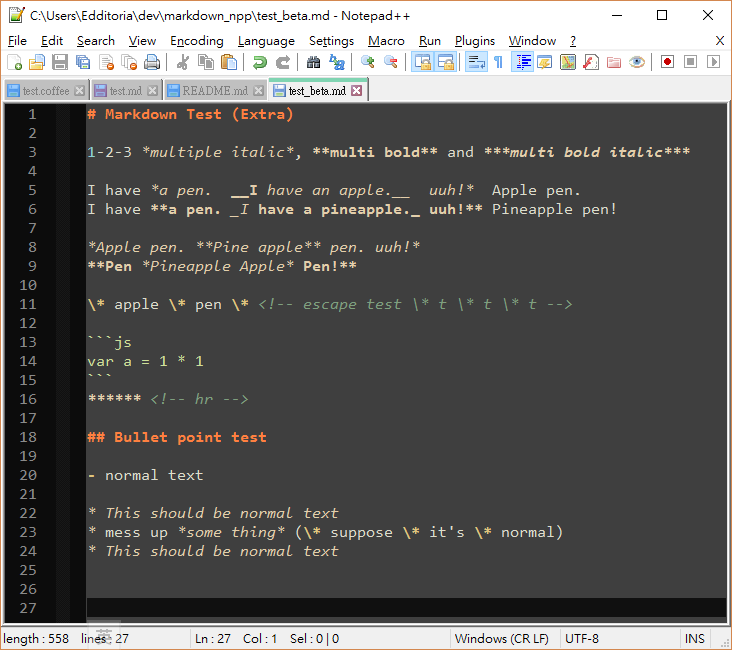
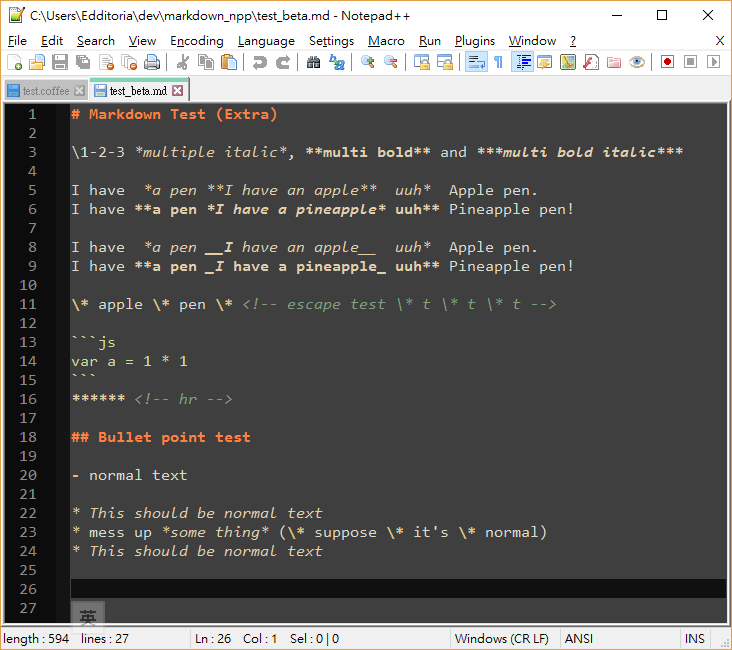
update README and screenshots

diff --git a/README.md b/README.md
@@ -1,6 +1,6 @@
 # [beta] Markdown Syntax Highlighting for Notepad++
 
-> :warning: **Warning, Warning!**
+> :warning: **Warning**
 >
 > This branch `feature/emphasis-multiple-words` is still in beta.
 > If you want trouble-free that do not mess up your existing markdown color schemes, please stick to [master branch][this_repo] as stable version.
@@ -13,28 +13,26 @@ I still need time to confirm if **this version will mess up other things?** Plea
 
 In short:
 
-|   | Stable | This Beta |
+|   | Stable (master branch) | Beta (this branch) |
 |---|---|---|
 | \*multiple em words\* | only parse the first word | parse ALL words |
 | \* bullet points | fully support | not support (use \- or \+ instead) |
 
 ## Test and Vote
 
-Stable (master branch):
+| Stable (master branch) | Beta (this branch) |
+| --- | --- |
+| ![stable](/test_stable_master.png) | ![beta](/test_beta_feature.png) |
 
-![stable](/test_stable_master.png)
-
-Beta (This branch):
-
-![beta](/test_beta_feature.png)
-
-file: [test_beta.md](test_beta.md)
+- Each "theme" directory contains a XML file. The **filename and scheme name are same as that in master branch**.
+- Make sure to re-open Notepad++ to take effect.
+- In this branch, here is a file for testing: [test_beta.md](test_beta.md)
 
 Which one do you prefer?
 
-> If you like, welcome to vote in [this post @ Google+ NPP community](https://plus.google.com/+Edditoria/posts/J3gmNNMnJWB?sfc=true).
+> If you like, welcome to vote in [this post @ Google+ NPP community](https://plus.google.com/+Edditoria/posts/dhgfRS3B7j4?sfc=true).
 
-## Fix and PR
+## Fix and Pull Request
 
 If you can fix all the problem, or if you have an idea, please rise an issue for discussion.
 
@@ -43,37 +41,6 @@ For pull request, please do to this branch instead of master (which will stay in
 Thanks!
 
 -----------
-
-## Screenshot
-
-![Markdown in Default Theme of Notepad++][screen_default]
-![Markdown in Zenburn Theme of Notepad++][screen_zenburn]
-![Markdown in Blackboard Theme of Notepad++][screen_blackboard]
-![Markdown in Deep Black Theme of Notepad++][screen_deep_black]
-
-Supports file extensions: `.markdown` and `.md`  
-Tested: Notepad++ v7.2.2 (Windows 10)
-
-## Usage
-
-1. Download the Markdown language definition file
-  - **Default Theme** : [userDefineLang_markdown.xml][default_xml]
-  - **Zenburn Theme** : [userDefineLang_markdown_zenburn.xml][zenburn_xml]
-  - **Blackboard Theme** : [userDefineLang_markdown_blackboard.xml][blackboard_xml] :new:
-  - **Deep Black Theme** : [userDefineLang_markdown_deep_black.xml][deep_black_xml] :new:
-2. In Notepad++ menu, click `Language` and select `Define your language...` .
-3. In User Defined Language windows, click `Import` then open the xml file.
-4. Restart Notepad++.
-5. Open and test with a Markdown file e.g. [test.md][test_file]
-
-**Enjoy!!**
-
-## Limitations
-
-Need your input to solve the following problems:
-
-- `*em text*` only parse the first word because it will screw up unorder list
-- `_em text_`, `__strong text__` and `___em strong text___` only parse the first word because it will screw up some URL contains `example__url`
 
 ## Build Script for Developers
 

diff --git a/test_beta.md b/test_beta.md
@@ -1,12 +1,12 @@
 # Markdown Test (Extra)
 
-1-2-3 *multiple italic*, **multi bold** and ***multi bold italic***
+\1-2-3 *multiple italic*, **multi bold** and ***multi bold italic***
 
-I have *a pen.  __I have an apple.__  uuh!*  Apple pen.
-I have **a pen. _I have a pineapple._ uuh!** Pineapple pen!
+I have  *a pen **I have an apple**  uuh*  Apple pen.
+I have **a pen *I have a pineapple* uuh** Pineapple pen!
 
-*Apple pen. **Pine apple** pen. uuh!*
-**Pen *Pineapple Apple* Pen!**
+I have  *a pen __I have an apple__  uuh*  Apple pen.
+I have **a pen _I have a pineapple_ uuh** Pineapple pen!
 
 \* apple \* pen \* <!-- escape test \* t \* t \* t -->
 
